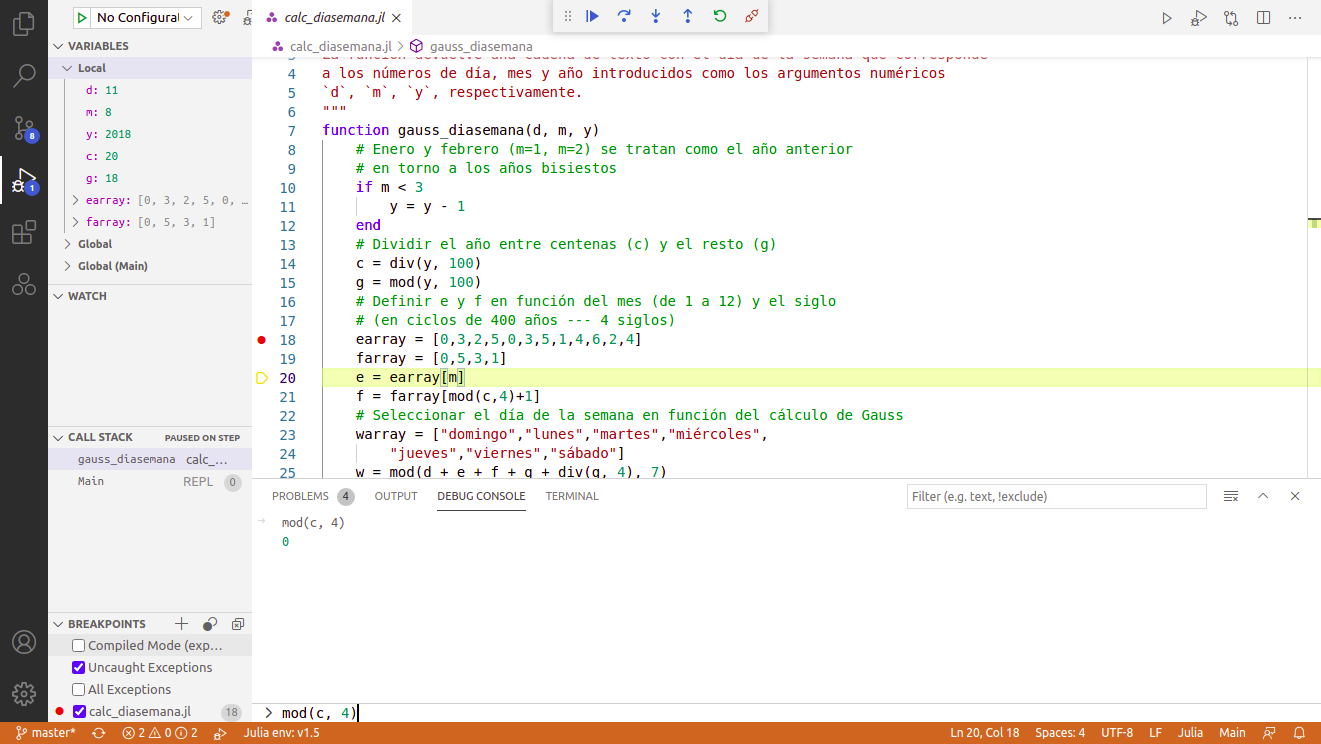
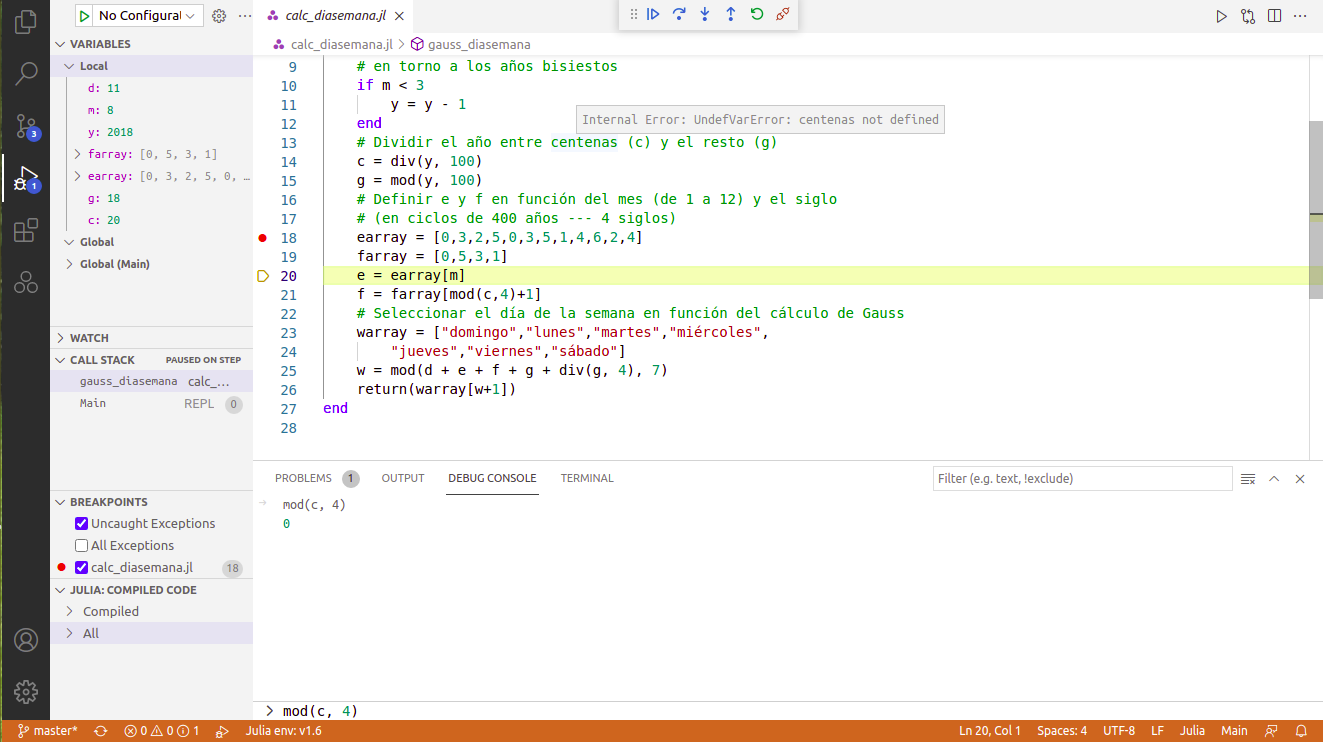
adaptar descripcion de debug de vscode

diff --git a/basico/src/10-debugging.md b/basico/src/10-debugging.md
@@ -401,7 +401,7 @@ Por otro lado, cuando se entra en modo *debug* en VS Code se cambia de entorno v
 
 ### *Debug* en modo compilado
 
-Como se ha señalado arriba, un inconvienente notable de ejecutar un programa en "modo *debug*" es que en general es mucho más lento, tanto más lento cuanto más complejo es el programa. Para reducir este problema se puede activar la opción "*compiled mode*" en cualquier punto de interrupción. Eso hará que cuando se ejecute la línea de código en la que está detenido el programa, las operaciones se hagan en modo compilado, a la velocidad de costumbre (y también las de las líneas siguientes, hasta que se desactive la opción), a no ser que se "entre" expresamente en ellas con la acción de "*step into*". Ahora bien, los *breakpoints* marcados en el código de las operaciones que se ejecutan en modo compilado no son operativos.
+Como se ha señalado arriba, un inconvienente notable de ejecutar un programa en "modo *debug*" es que en general es mucho más lento, tanto más lento cuanto más complejo es el programa. Para reducir este problema se puede hacer activar el "modo compilado" (véase el menú "*compiled mode*" abajo a la izquierda en la figura 1).[^7] Eso hará que las funciones añadidas directamente o a través de sus módulos en la lista de ese menú se ejecuten a la velocidad de costumbre, a no ser que se "entre" expresamente en ellas con la acción de "*step into*". Ahora bien, los *breakpoints* marcados en el código de las funciones que se ejecutan en modo compilado no son operativos.
 
 Consideremos, por ejemplo, que se ha entrado en modo *debug* en un programa con las siguientes líneas:
 
@@ -409,11 +409,9 @@ Consideremos, por ejemplo, que se ha entrado en modo *debug* en un programa con 
 
 A modo de ayuda visual, el código se muestra como se vería en el editor de VS Code. La primera línea (#11) está resaltada, indicando que la ejecución se ha detenido en ese punto. El punto rojo en la tercera línea señala un *breakpoint*. Supongamos, además, que dentro del código de la función `g` (que no se muestra aquí) también se ha activado otro *breakpoint*.
 
-Si no está activado el modo compilado y se selecciona la opción de "continuar" la ejecución, la siguiente interrupción tendrá lugar durante la ejecución de la segunda línea, en el *breakpoint* que hay dentro de la función `g`. Pero si estuviera activado el modo compilado, la función `g` se ejecutaría sin detenerse, y la interrupción se daría en el *breakpoint* de la tercera línea, que está al mismo "nivel" que el punto desde el que se reanuda la ejecución.
+Si se selecciona la opción de "continuar" la ejecución, normalmente la siguiente interrupción tendría lugar durante la ejecución de la segunda línea, en el *breakpoint* que hay dentro de la función `g`. Pero si estuviera activado el modo compilado y la función `g` se encontrara en la lista de funciones compiladas, la función `g` se ejecutaría sin detenerse, y la interrupción se daría en el *breakpoint* de la tercera línea, que está al mismo "nivel" que el punto desde el que se reanuda la ejecución.
 
-¿Cómo hacer entonces para utilizar *breakpoints* que se encuentran a distintos "niveles" y a la vez aprovechar la mayor eficiencia del "modo compilado"? Si, por ejemplo, la función `f` fuese muy compleja y lenta de ejecutar en modo *debug*, sería conveniente ejecutarla en modo compilado. Pero en lugar de seleccionar la acción de continuar la ejecución (que busca directamente el siguiente *breakpoint*), se podría ejecutar solo esa línea con la acción *step over*, de modo que nos detendríamos en la línea #12, a la entrada de la función `g` que queremos inspeccionar. (Alternativamente, y a sabiendas de que queremos detenernos en algún punto dentro de `g`, se podría haber fijado otro *breakpoint* en esa línea donde se llama a la función.)
-
-Entonces, para evitar que `g` se ejecute por completo de modo compilado, se puede entrar en su código mediante la acción *step into*, de forma que la siguiente interrupción se dará en la primera línea de código de `g`. Si el *breakpoint* que buscamos está a ese mismo nivel, desde ahí se podría continuar la ejecución hasta que se detenga en él. Y así sucesivamente. Pasado el *breakpoint*, se puede ejecutar el resto de la función y quedarse a la salida de la misma con la acción *step out*.
+Por defecto la lista de funciones compiladas incluye solo las de `Base` y los módulos estándar. Eso permite acelerar muchas de las operaciones que se realizan en cualquier programa sin riesgo de saltarse *breakpoints* (que normalmente suelen añadirse al código propio). Pero en cualquier momento pueden añadirse funciones propias o de otros paquetes, que sean complejas y lentas de ejecutar en modo *debug*, y que no interese inspeccionar.
 
 ## Sumario del capítulo
 
